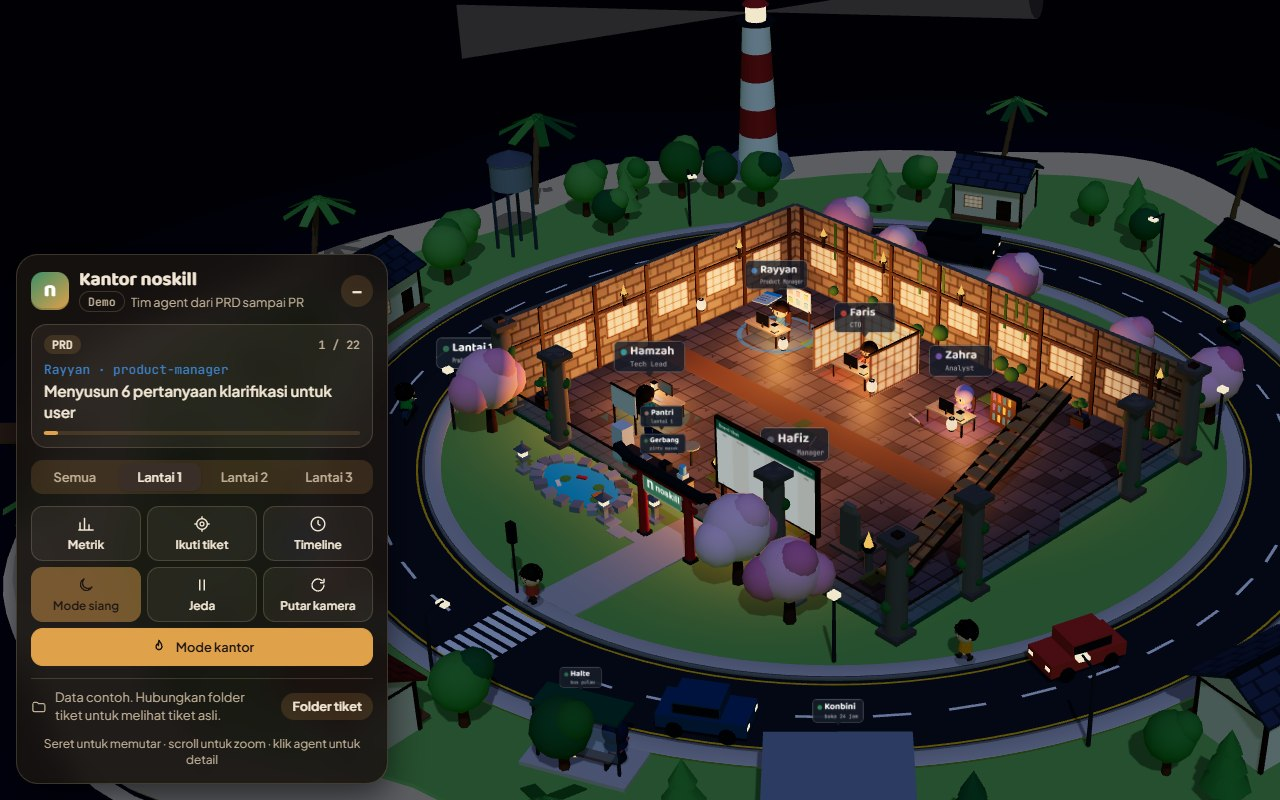
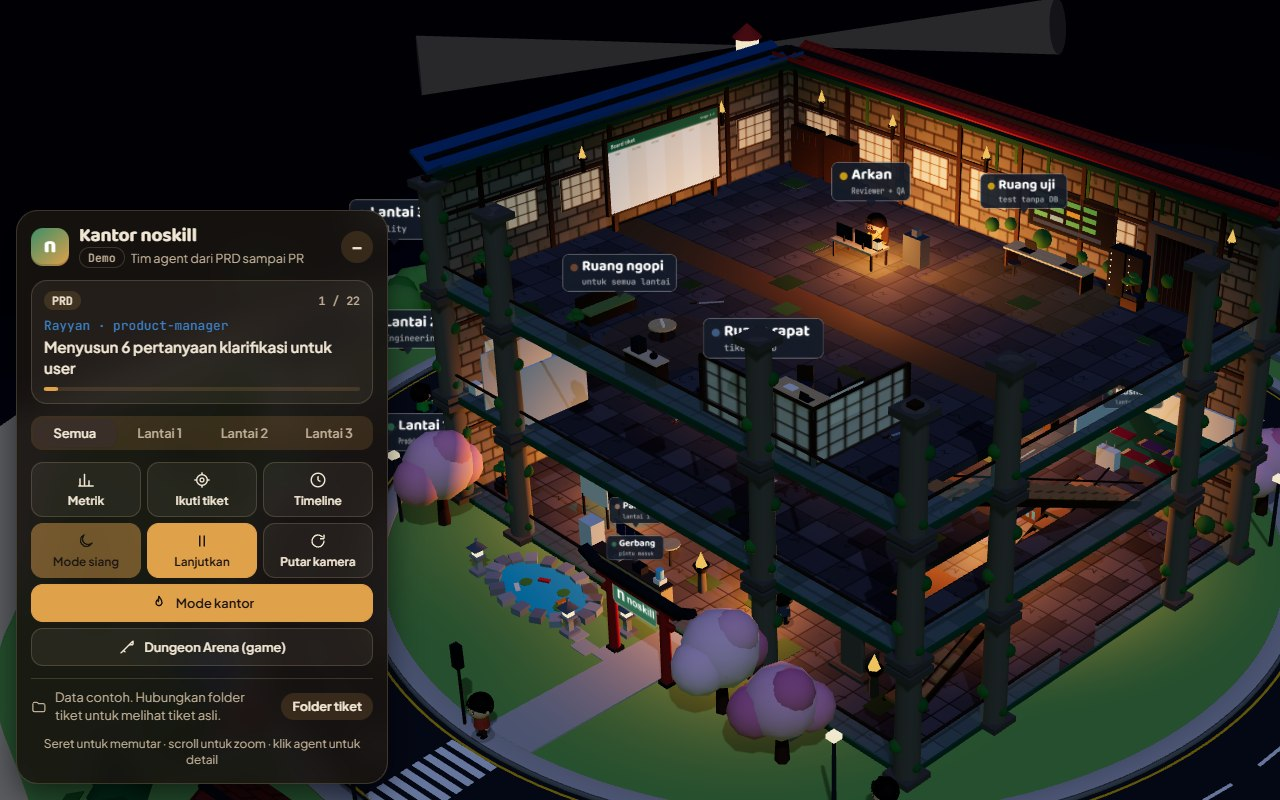
feat(kantor): papan tiket ke lantai 3 dan monster di jalan pada Mode dungeon (2.6.0)
- Papan tiket pindah ke dinding barat lantai 3 supaya tidak tertutup dari depan
- Monster (slime, imp) muncul di jalan lingkar lewat portal, memburu pejalan kaki yang terjatuh dan lari; mobil berhenti
- Percobaan karakter dungeon 3D dibatalkan; sprite 2D dan Dungeon Arena tetap
- Versi 2.6.0, screenshot, CHANGELOG, README, docs

diff --git a/docs/skills.html b/docs/skills.html
@@ -161,7 +161,7 @@ html { scroll-behavior: smooth; }
         <figure><img src="img/kantor-malam.jpg" alt="Kantor saat malam dengan lampu meja dan lampu jalan menyala" width="1280" height="800" loading="lazy"><figcaption>Mode malam: lampu meja dan lampu jalan menyala.</figcaption></figure>
       </div>
       </div>
-      <dl><dt>Cara pakai</dt><dd><code>/noskill:kantor</code>. Di Cowork/claude.ai halaman diterbitkan sebagai artifact milikmu (atau artifact lama diperbarui). Di Claude Code terminal halaman disalin ke folder docs dan berjalan dalam mode demo.</dd><dt>Lantai</dt><dd><ul><li>Lantai 1, Produk &amp; Arsitektur: Product Manager, CTO, Analyst, Tech Lead, Eng. Manager dengan board tiket.</li><li>Lantai 2, Engineering: Backend, Frontend, Fullstack Dev.</li><li>Lantai 3, Quality: Reviewer (sekaligus QA) di samping <em>Ruang uji</em> (papan CI dan rak server yang lampunya hijau/merah mengikuti verdict), plus rak buku.</li><li><em>Ruang ngopi</em> bersama di Lantai 3: agent dari semua lantai yang tidak punya pekerjaan sekitar 20 detik naik ke sana untuk ngopi, lalu kembali ke mejanya begitu ada tiket atau tahap untuknya.</li><li>Fasilitas lain: <em>Pantri</em> di Lantai 1 serta <em>Toilet</em> dan <em>Musholla</em> di Lantai 2. Agent yang menganggur bergantian ke sana atau mampir ngobrol ke meja rekan; saat waktu salat ke musholla, saat makan siang ke pantri.</li><li>Agent saling menyapa dan mengobrol lewat gelembung bicara, dan penerima tiket membalas kurir yang mengantarnya.</li><li>Kantor berdiri di pulau kecil dengan pantai, pohon kelapa, laguna, dan laut sampai cakrawala. Jalan lingkar mengitari kantor; mobil dan motor berputar di dua jalur berlawanan dan berhenti di zebra cross (segaris gerbang torii) saat ada orang menyeberang. Di luar jalan ada desa: rumah kayu beratap genteng, konbini yang menyala di malam hari, kuil kecil dengan torii, menara air, mercusuar yang menyapu cahayanya saat malam, dan dermaga dengan perahu nelayan; satu perahu lagi berlayar mengelilingi pulau. Halte, pangkalan ojek, dan gerobak bakso ada di trotoar luar.</li></ul></dd><dt>Yang bisa dilakukan</dt><dd><ul><li>Interior bergaya Jepang: lantai hinoki dan tatami, jendela dan sekat shoji, meja dan kursi kayu dengan zabuton, lampu andon, bonsai, tirai noren, dan lampion kertas.</li><li>Tampilan 3D realistis (cahaya filmic, bayangan lembut, tekstur serat kayu) dengan kamera hampir isometrik; papan nama gelap dengan titik warna agent, dan label agent di lantai yang tertutup dibuat samar.</li><li>Karakter chibi 3D (kepala besar, mata besar berkilau yang berkedip, pipi merona, ID card, shading lembut dengan bayangan) dengan ciri masing-masing: hijab dengan rok panjang, jenggot, kacamata, gaya rambut, dasi. Lengan dan kaki benar-benar bergerak saat berjalan, duduk, mengetik, dan makan; saat agent aktif tangannya terangkat dengan percikan. Lantai 1 berlantai kayu hinoki, lantai 2–3 bertatami.</li><li>Panel: langkah yang sedang berjalan dengan progres, pemilih lantai, dan toolbar (Metrik, Ikuti tiket, Timeline, Mode malam, Jeda, Putar kamera).</li><li><em>Mode dungeon</em> (tombol di toolbar): tema tambahan reruntuhan kastil malam hari dengan lantai batu, dinding bata, obor berkedip, pilar beriven, singgasana di samping papan Hafiz, dan pintu jeruji bermata merah di Ruang uji yang melotot saat reviewer meminta perubahan. Pilihannya diingat di browser.</li><li><em>Dungeon Arena</em> (tombol game di Mode dungeon): mini-game 2D sisi-samping. Kamu ksatria dengan penyihir sebagai teman; tiap tiket BUG menjadi slime berlabel ID tiketnya, lalu bos Tenggat muncul. Kontrol: panah atau WASD jalan, Spasi lompat, J/X/klik serang, Esc keluar. Hanya membaca tiket, status tiket tidak berubah. Di dunia 3D, ksatria, penyihir, dan penyihir waktu juga berdiri sebagai sprite animasi.</li><li>Klik agent: kartu dengan avatar, deskripsi, skill, tools, model, verdict, dan tiket yang sedang dipegang.</li><li>Klik tiket di board: AC, Riwayat, pemegang, dan <em>Putar ulang perjalanan</em>.</li><li><em>Metrik</em>: durasi rata-rata per tahap dan per agent dari baris Riwayat, ronde revisi terbanyak, daftar HOLD.</li><li>Filter per proyek/fitur, tombol lantai, <em>Ikuti tiket</em> (kamera mengikuti agent yang berjalan), panel yang bisa dikecilkan.</li><li>Orang lain yang membuka kantor tampil di panel dan di lobi Lantai 1.</li><li>Tiket HOLD bisa dijawab langsung di detail tiket; <code>/noskill:tiket lanjut</code> mengambil jawabannya. Selama HOLD, Eng. Manager dan agent pemegang tiket menunggu di <em>Ruang rapat</em> Lantai 3.</li><li>Setiap agent punya nama: Rayyan (PM), Faris (CTO), Zahra (Analyst), Hamzah (Tech Lead), Zayn (Backend), Alya (Frontend), Fathan (Fullstack), Arkan (Reviewer + QA), Hafiz (Eng. Manager).</li><li>Gelembung bicara menampilkan verdict yang dibawa agent, <em>Metrik</em> menampilkan token per agent dan per tiket, dan <em>Timeline</em> menampilkan perpindahan status hari ini.</li><li>Agent yang sedang mengerjakan PRD, ADR, atau BRD ikut menyala, dibaca dari <code>activity.json</code> yang ditulis <code>feature-flow</code>.</li></ul></dd><dt>Data live</dt><dd><ol><li>Tambahkan MCP <code>filesystem</code> di config Claude desktop, berisi folder induk proyek.</li><li>Buka artifact di aplikasi Claude desktop → <em>Folder tiket</em> → tempel path <code>docs/noskill</code> (atau folder <code>tickets</code>), satu per baris → <em>Pakai data live</em>.</li><li>Board disimpan ke database artifact, jadi di browser dan HP tampil sebagai <em>Snapshot</em>.</li></ol></dd><dt>Batasan</dt><dd>Membaca folder lokal hanya bisa di aplikasi Claude desktop dan pada artifact milikmu sendiri. Tanpa data live, halaman memutar contoh alur tiket.</dd></dl>
+      <dl><dt>Cara pakai</dt><dd><code>/noskill:kantor</code>. Di Cowork/claude.ai halaman diterbitkan sebagai artifact milikmu (atau artifact lama diperbarui). Di Claude Code terminal halaman disalin ke folder docs dan berjalan dalam mode demo.</dd><dt>Lantai</dt><dd><ul><li>Lantai 1, Produk &amp; Arsitektur: Product Manager, CTO, Analyst, Tech Lead, Eng. Manager.</li><li>Lantai 2, Engineering: Backend, Frontend, Fullstack Dev.</li><li>Lantai 3, Quality: papan tiket di dinding barat (paling terlihat dari depan), Reviewer (sekaligus QA) di samping <em>Ruang uji</em> (papan CI dan rak server yang lampunya hijau/merah mengikuti verdict), plus rak buku.</li><li><em>Ruang ngopi</em> bersama di Lantai 3: agent dari semua lantai yang tidak punya pekerjaan sekitar 20 detik naik ke sana untuk ngopi, lalu kembali ke mejanya begitu ada tiket atau tahap untuknya.</li><li>Fasilitas lain: <em>Pantri</em> di Lantai 1 serta <em>Toilet</em> dan <em>Musholla</em> di Lantai 2. Agent yang menganggur bergantian ke sana atau mampir ngobrol ke meja rekan; saat waktu salat ke musholla, saat makan siang ke pantri.</li><li>Agent saling menyapa dan mengobrol lewat gelembung bicara, dan penerima tiket membalas kurir yang mengantarnya.</li><li>Kantor berdiri di pulau kecil dengan pantai, pohon kelapa, laguna, dan laut sampai cakrawala. Jalan lingkar mengitari kantor; mobil dan motor berputar di dua jalur berlawanan dan berhenti di zebra cross (segaris gerbang torii) saat ada orang menyeberang. Di luar jalan ada desa: rumah kayu beratap genteng, konbini yang menyala di malam hari, kuil kecil dengan torii, menara air, mercusuar yang menyapu cahayanya saat malam, dan dermaga dengan perahu nelayan; satu perahu lagi berlayar mengelilingi pulau. Halte, pangkalan ojek, dan gerobak bakso ada di trotoar luar.</li></ul></dd><dt>Yang bisa dilakukan</dt><dd><ul><li>Interior bergaya Jepang: lantai hinoki dan tatami, jendela dan sekat shoji, meja dan kursi kayu dengan zabuton, lampu andon, bonsai, tirai noren, dan lampion kertas.</li><li>Tampilan 3D realistis (cahaya filmic, bayangan lembut, tekstur serat kayu) dengan kamera hampir isometrik; papan nama gelap dengan titik warna agent, dan label agent di lantai yang tertutup dibuat samar.</li><li>Karakter chibi 3D (kepala besar, mata besar berkilau yang berkedip, pipi merona, ID card, shading lembut dengan bayangan) dengan ciri masing-masing: hijab dengan rok panjang, jenggot, kacamata, gaya rambut, dasi. Lengan dan kaki benar-benar bergerak saat berjalan, duduk, mengetik, dan makan; saat agent aktif tangannya terangkat dengan percikan. Lantai 1 berlantai kayu hinoki, lantai 2–3 bertatami.</li><li>Panel: langkah yang sedang berjalan dengan progres, pemilih lantai, dan toolbar (Metrik, Ikuti tiket, Timeline, Mode malam, Jeda, Putar kamera).</li><li><em>Mode dungeon</em> (tombol di toolbar): tema tambahan reruntuhan kastil malam hari dengan lantai batu, dinding bata, obor berkedip, pilar beriven, singgasana di samping papan Hafiz, dan pintu jeruji bermata merah di Ruang uji yang melotot saat reviewer meminta perubahan. Di jalan lingkar muncul monster (slime dan imp berlabel ID tiket BUG) lewat portal ungu; mereka memburu pejalan kaki, yang terjatuh lalu lari, dan mobil berhenti di depannya. Pilihannya diingat di browser.</li><li><em>Dungeon Arena</em> (tombol game di Mode dungeon): mini-game 2D sisi-samping. Kamu ksatria dengan penyihir sebagai teman; tiap tiket BUG menjadi slime berlabel ID tiketnya, lalu bos Tenggat muncul. Kontrol: panah atau WASD jalan, Spasi lompat, J/X/klik serang, Esc keluar. Hanya membaca tiket, status tiket tidak berubah. Di dunia 3D, ksatria, penyihir, dan penyihir waktu juga berdiri sebagai sprite animasi.</li><li>Klik agent: kartu dengan avatar, deskripsi, skill, tools, model, verdict, dan tiket yang sedang dipegang.</li><li>Klik tiket di board: AC, Riwayat, pemegang, dan <em>Putar ulang perjalanan</em>.</li><li><em>Metrik</em>: durasi rata-rata per tahap dan per agent dari baris Riwayat, ronde revisi terbanyak, daftar HOLD.</li><li>Filter per proyek/fitur, tombol lantai, <em>Ikuti tiket</em> (kamera mengikuti agent yang berjalan), panel yang bisa dikecilkan.</li><li>Orang lain yang membuka kantor tampil di panel dan di lobi Lantai 1.</li><li>Tiket HOLD bisa dijawab langsung di detail tiket; <code>/noskill:tiket lanjut</code> mengambil jawabannya. Selama HOLD, Eng. Manager dan agent pemegang tiket menunggu di <em>Ruang rapat</em> Lantai 3.</li><li>Setiap agent punya nama: Rayyan (PM), Faris (CTO), Zahra (Analyst), Hamzah (Tech Lead), Zayn (Backend), Alya (Frontend), Fathan (Fullstack), Arkan (Reviewer + QA), Hafiz (Eng. Manager).</li><li>Gelembung bicara menampilkan verdict yang dibawa agent, <em>Metrik</em> menampilkan token per agent dan per tiket, dan <em>Timeline</em> menampilkan perpindahan status hari ini.</li><li>Agent yang sedang mengerjakan PRD, ADR, atau BRD ikut menyala, dibaca dari <code>activity.json</code> yang ditulis <code>feature-flow</code>.</li></ul></dd><dt>Data live</dt><dd><ol><li>Tambahkan MCP <code>filesystem</code> di config Claude desktop, berisi folder induk proyek.</li><li>Buka artifact di aplikasi Claude desktop → <em>Folder tiket</em> → tempel path <code>docs/noskill</code> (atau folder <code>tickets</code>), satu per baris → <em>Pakai data live</em>.</li><li>Board disimpan ke database artifact, jadi di browser dan HP tampil sebagai <em>Snapshot</em>.</li></ol></dd><dt>Batasan</dt><dd>Membaca folder lokal hanya bisa di aplikasi Claude desktop dan pada artifact milikmu sendiri. Tanpa data live, halaman memutar contoh alur tiket.</dd></dl>
     </section>
     <section class="skill" id="project-profile">
       <h3><code>project-profile</code><span class="tag">sekali per project</span></h3>

diff --git a/skills/kantor/kantor-noskill.html b/skills/kantor/kantor-noskill.html
@@ -1276,17 +1276,19 @@
   centre.position.set(4, FY[0], 6.8);
   centre.rotation.y = Math.PI;               // faces the corridor
   floors[0].add(centre);
-  box(6.6, 3.5, 0.2, WOOD, 0, 2.55, -1.4, { parent: centre });
-  box(0.2, 1.0, 0.2, WOOD, -2.9, 0.5, -1.4, { parent: centre });
-  box(0.2, 1.0, 0.2, WOOD, 2.9, 0.5, -1.4, { parent: centre });
+  // the board stands on the top floor against the west wall: from the front it is not hidden by a slab or railing there
+  const boardG = new THREE.Group(); boardG.position.set(BX0 + 0.75, FY[2], -1.6); boardG.rotation.y = Math.PI / 2; floors[2].add(boardG);
+  box(6.6, 3.5, 0.2, WOOD, 0, 2.55, 0, { parent: boardG });
+  box(0.2, 1.0, 0.2, WOOD, -2.9, 0.5, 0, { parent: boardG });
+  box(0.2, 1.0, 0.2, WOOD, 2.9, 0.5, 0, { parent: boardG });
   const boardCv = document.createElement('canvas');
   boardCv.width = 1024; boardCv.height = 540;
   const boardTex = new THREE.CanvasTexture(boardCv); boardTex.encoding = THREE.sRGBEncoding;
   const boardMat = new THREE.MeshStandardMaterial({ map: boardTex, roughness: 0.85, emissive: 0xffffff, emissiveMap: boardTex, emissiveIntensity: 0.12 });
   const boardFront = new THREE.Mesh(new THREE.PlaneGeometry(6.3, 3.3), boardMat);
-  boardFront.position.set(0, 2.55, -1.29); centre.add(boardFront);
+  boardFront.position.set(0, 2.55, 0.11); boardG.add(boardFront);
   const boardBack = new THREE.Mesh(new THREE.PlaneGeometry(6.3, 3.3), boardMat);
-  boardBack.position.set(0, 2.55, -1.51); boardBack.rotation.y = Math.PI; centre.add(boardBack);
+  boardBack.position.set(0, 2.55, -0.11); boardBack.rotation.y = Math.PI; boardG.add(boardBack);
   box(1.1, 1.0, 0.6, HINOKI, 1.6, 0.5, 0.4, { parent: centre });
   deskLamp(centre, 1.85, 1.0, 0.6);
 
@@ -1832,6 +1834,7 @@
   const ndc = new THREE.Vector2();
   const pickables = [];
   Object.keys(ST).forEach(function (k) { pickables.push(ST[k].g, ST[k].person); });
+  pickables.push(boardG);
   boardFront.userData.board = true; boardBack.userData.board = true;
   function visibleChain(o) { for (; o; o = o.parent) if (!o.visible) return false; return true; }
   function keyAt(ev) {
@@ -3132,6 +3135,11 @@
       let target = v.max;
       if (gap < 4) target = Math.max(0, (gap - 1) * 1.2);
       if (crossing && toZebra > -0.5 && toZebra < 7) target = Math.min(target, Math.max(0, toZebra * 0.8));
+      monsters.forEach(function (m) {   // a monster on the road: stop short of it
+        const mr = Math.hypot(m.g.position.x, m.g.position.z); if (Math.abs(mr - r) > 1.7 || m.state === 'leave') return;
+        const d = (((Math.atan2(m.g.position.z, m.g.position.x) - v.a) * dir * r) % lap + lap) % lap - v.len / 2 - 1.3;
+        if (d > -0.5 && d < 7) target = Math.min(target, Math.max(0, d * 0.7));
+      });
       v.v += Math.max(-6 * dt, Math.min(2.5 * dt, target - v.v));
       v.a += dir * v.v * dt / r;
       v.g.position.copy(onRing(r, v.a, 0.06));
@@ -3139,11 +3147,14 @@
     });
     // walkers loop round the sidewalks
     walkersOut.forEach(function (w) {
-      w.a += w.dir * w.sp * dt / w.r;
+      const stunned = w.stun > 0, run = w.flee > 0;   // set by a monster's attack (dungeon mode)
+      if (stunned) w.stun -= dt; else { if (run) w.flee -= dt; w.a += w.dir * w.sp * (run ? 2.4 : 1) * dt / w.r; }
       w.p.position.copy(onRing(w.r, w.a, 0.18));
       w.p.rotation.y = w.dir > 0 ? -w.a : Math.PI - w.a;
-      swing(w.p, t * 7 * w.sp, true);
+      w.p.userData.model.rotation.x = stunned ? -1.35 : 0;
+      swing(w.p, t * 7 * w.sp * (run ? 2 : 1), !stunned);
     });
+    stepMonsters(dt);
     // the seller stirs the pot
     seller.userData.armR.rotation.x = -1.0 + Math.sin(t * 3) * 0.3;
     // boats bob, one sails slowly round the island; the lighthouse turns; the surf breathes
@@ -3333,6 +3344,91 @@
     charBillboard(g, 'wizard', 7.6, FY[2], 5.0, -1, function (c) { const p = c.t % 7; return p > 5.8 ? ['cast', Math.min(4, Math.floor((p - 5.8) / 0.24))] : ['idle', Math.floor(c.t * 4.2) % 4]; });
     charBillboard(g, 'timemage', 0.4, FY[2], -7.4, 1, function (c) { const p = c.t % 9; return p > 7.6 ? ['cast', Math.min(3, Math.floor((p - 7.6) / 0.35))] : ['idle', Math.floor(c.t * 4) % 4]; });
   })();
+
+  // ---------- Dungeon monsters: they appear on the ring road and attack the people walking round it ----------
+  // Only while dungeon mode is on. Each one carries a BUG ticket ID, appears in a purple portal ahead of a walker, hunts
+  // that walker, knocks them down and sends them running the other way. Cars stop for a monster on the road the way they
+  // do at the zebra crossing. No extra lights: the glow is emissive.
+  const monsters = [], monPortals = [], monPos = new THREE.Vector3();
+  let monsterT = 5, monsterN = 0;
+  const MON_SHOUT = ['Aaah!', 'Monster!', 'Tolong!', 'Lari!', 'Ada bug!'];
+  const monEye = new THREE.MeshBasicMaterial({ color: 0xff3a30, toneMapped: false });
+  const monWhite = new THREE.MeshBasicMaterial({ color: 0xffffff, toneMapped: false }), monInk = new THREE.MeshBasicMaterial({ color: 0x1a1020 });
+  function makeMonster(kind, ci) {
+    const g = new THREE.Group(), u = {};
+    const sph = geo('monSphere', function () { return new THREE.SphereGeometry(1, 16, 12); });
+    if (kind === 'slime') {
+      const mt = new THREE.MeshStandardMaterial({ color: [0x5ccf70, 0x9b6bd9, 0x4fb0e8][ci % 3], roughness: 0.3, metalness: 0.05 });
+      u.body = new THREE.Mesh(sph, mt); u.body.scale.set(0.85, 0.7, 0.85); u.body.position.y = 0.62; u.body.castShadow = true; g.add(u.body);
+      [-0.3, 0.3].forEach(function (x) {
+        part(g, geo('monEye', function () { return new THREE.SphereGeometry(0.17, 10, 8); }), monWhite, x, 0.8, 0.66);
+        part(g, geo('monPupil', function () { return new THREE.SphereGeometry(0.08, 8, 6); }), monInk, x, 0.8, 0.8);
+      });
+    } else {   // a shadow imp: dark body, two horns, glowing red eyes
+      const mt = new THREE.MeshStandardMaterial({ color: 0x5b3d86, emissive: 0x2a1450, emissiveIntensity: 0.7, roughness: 0.6 });
+      u.body = new THREE.Mesh(sph, mt); u.body.scale.set(0.62, 0.8, 0.58); u.body.position.y = 0.95; u.body.castShadow = true; g.add(u.body);
+      [-0.3, 0.3].forEach(function (x) {
+        const horn = part(g, geo('monHorn', function () { return new THREE.ConeGeometry(0.1, 0.4, 6); }), personMat(0xb8a6c8), x, 1.72, 0); horn.rotation.z = -x * 1.1;
+        part(g, geo('monEyeR', function () { return new THREE.SphereGeometry(0.11, 8, 6); }), monEye, x * 0.8, 1.12, 0.48);
+        part(g, geo('monArm', function () { return new THREE.SphereGeometry(0.17, 8, 6); }), mt, x * 2.2, 0.78, 0.15);
+        part(g, geo('monFoot', function () { return new THREE.SphereGeometry(0.2, 8, 6); }), mt, x * 0.7, 0.16, 0.1).scale.set(1, 0.6, 1.3);
+      });
+    }
+    const ring = part(g, geo('monRing', function () { return new THREE.CircleGeometry(0.95, 20); }), new THREE.MeshBasicMaterial({ color: 0xb06bff, transparent: true, opacity: 0.38, depthWrite: false, blending: THREE.AdditiveBlending, toneMapped: false }), 0, 0.05, 0);
+    ring.rotation.x = -Math.PI / 2;   // a faint purple glow under every monster so it shows up in the dark
+    g.userData = u; return g;
+  }
+  function monsterTag() {
+    const ids = (typeof boardList !== 'undefined' ? boardList : []).filter(function (tk) { return tk && tk.status === 'BUG' && tk.id; }).map(function (tk) { return String(tk.id).slice(0, 14); });
+    const pool = ids.length ? ids : ['BUG-101', 'BUG-102', 'BUG-103', 'BUG-104'];
+    return pool[monsterN++ % pool.length];
+  }
+  function spawnMonster() {
+    const w = walkersOut[Math.floor(Math.random() * walkersOut.length)];
+    const a = w.a + w.dir * (0.3 + Math.random() * 0.14), r = 21.3 + Math.random() * 1.7, kind = Math.random() < 0.62 ? 'slime' : 'imp';
+    const g = makeMonster(kind, monsterN), at = onRing(r, a, 0.06);
+    g.position.copy(at); g.scale.setScalar(0.01); scene.add(g);
+    const lb = makeLabel(monsterTag(), 'monster', 0xc8453a); lb.position.set(0, 2.3, 0); g.add(lb);
+    const por = new THREE.Mesh(geo('monPortal', function () { return new THREE.CircleGeometry(1.7, 28); }), new THREE.MeshBasicMaterial({ color: 0x9b4dff, transparent: true, opacity: 0.85, depthWrite: false, blending: THREE.AdditiveBlending, toneMapped: false }));
+    por.rotation.x = -Math.PI / 2; por.position.set(at.x, 0.1, at.z); por.scale.setScalar(0.2); scene.add(por); monPortals.push({ m: por, t: 0 });
+    monsters.push({ g: g, kind: kind, label: lb, target: w, state: 'spawn', t: 0, ttl: 17, attacks: 0, cd: 0 });
+  }
+  function stepMonsters(dt) {
+    const on = dungeon > 0.5;
+    monsterT -= dt;
+    if (on && monsterT <= 0 && monsters.filter(function (m) { return m.state !== 'leave'; }).length < 3) { monsterT = 9 + Math.random() * 7; spawnMonster(); }
+    for (let i = monsters.length - 1; i >= 0; i--) {
+      const m = monsters[i], g = m.g, u = g.userData; m.t += dt; m.cd -= dt; m.ttl -= dt;
+      if (m.state !== 'leave' && (!on || m.ttl <= 0 || m.attacks >= 3)) { m.state = 'leave'; m.t = 0; }
+      if (m.state === 'spawn') {
+        const k = Math.min(1, m.t / 0.8); g.scale.setScalar(Math.max(0.01, k)); if (k >= 1) m.state = 'hunt';
+      } else if (m.state === 'leave') {
+        const k = Math.max(0, 1 - m.t / 0.7); g.scale.setScalar(Math.max(0.01, k));
+        if (k <= 0) { g.remove(m.label); scene.remove(g); monsters.splice(i, 1); continue; }
+      } else {
+        const w = m.target, dx = w.p.position.x - g.position.x, dz = w.p.position.z - g.position.z, d = Math.hypot(dx, dz) || 1;
+        g.rotation.y = Math.atan2(dx, dz);
+        if (m.state === 'hunt') {
+          if (d > 1.2) { g.position.x += dx / d * 2.9 * dt; g.position.z += dz / d * 2.9 * dt; }
+          else if (m.cd <= 0) {   // lunge: the walker is knocked down and runs the other way
+            m.state = 'attack'; m.t = 0; m.cd = 3.5; m.attacks++;
+            w.stun = 2.2; w.flee = 7; w.dir = -w.dir;
+            npcSays.push({ p: w.p, sp: makeBubble(MON_SHOUT[Math.floor(Math.random() * MON_SHOUT.length)]), ttl: 2.2 });
+          }
+          g.position.y = 0.06 + (m.kind === 'slime' ? Math.abs(Math.sin(m.t * 7)) * 0.28 : Math.abs(Math.sin(m.t * 6)) * 0.1);
+          if (m.kind === 'slime') u.body.scale.set(0.85 * (1 + Math.sin(m.t * 14) * 0.05), 0.7 * (1 - Math.sin(m.t * 14) * 0.07), 0.85);
+        } else {
+          const k = m.t / 0.6; g.position.y = 0.06 + Math.sin(Math.min(1, k) * Math.PI) * 0.7; u.body.rotation.x = Math.sin(Math.min(1, k) * Math.PI) * 0.5;
+          if (k >= 1) { m.state = 'hunt'; m.t = 0; u.body.rotation.x = 0; }
+        }
+      }
+    }
+    for (let i = monPortals.length - 1; i >= 0; i--) {
+      const q = monPortals[i]; q.t += dt; const k = q.t / 1.8;
+      q.m.scale.setScalar(0.2 + Math.min(1, q.t / 0.5) * 0.8); q.m.material.opacity = 0.85 * Math.max(0, 1 - k) + 0.05 * Math.sin(q.t * 12); q.m.rotation.z += dt * 3;
+      if (k >= 1) { scene.remove(q.m); q.m.material.dispose(); monPortals.splice(i, 1); }
+    }
+  }
 
   // ---------- Dungeon Arena: a small side-view brawler on top of the office ----------
   // You are the hero; the wizard fights beside you; every BUG ticket becomes a slime, and the time mage ("Tenggat")

diff --git a/docs/index.html b/docs/index.html
@@ -124,7 +124,7 @@
         <div class="eyebrow">Plugin Claude Code</div>
         <h1>noskill</h1>
         <div align="center">
-          <img alt="Version 2.5.0" src="https://img.shields.io/badge/version-2.5.0-1d6b57?style=flat-square&logo=github" />
+          <img alt="Version 2.6.0" src="https://img.shields.io/badge/version-2.6.0-1d6b57?style=flat-square&logo=github" />
         </div>
         <p class="lede">Skill dan agent untuk kerja development seperti tim engineering: tiket dikerjakan developer, lalu reviewer mengecek kode sekaligus menjalankan test dan cara verifikasinya, lalu masuk DONE. Kodenya hanya mengubah yang diminta, bukan refactor tanpa alasan. Cocok untuk bug fix, fitur kecil, fitur besar, dan multi-repo.</p>
         <div class="cmd"><pre>/plugin install noskill --marketplace awahids/noskill</pre><button type="button" data-copy>Salin</button></div>

diff --git a/README.md b/README.md
@@ -8,7 +8,7 @@
 # noskill
 
 <div align="center">
-  <img alt="Version 2.5.0" src="https://img.shields.io/badge/version-2.5.0-1d6b57?style=flat-square&logo=github" />
+  <img alt="Version 2.6.0" src="https://img.shields.io/badge/version-2.6.0-1d6b57?style=flat-square&logo=github" />
 </div>
 
 Koleksi Claude Skills & Agent untuk kerja development sehari-hari — dipaketkan sebagai plugin `noskill`, termasuk tim engineering lengkap dalam bentuk agent: Product Manager, CTO, analyst, tech lead, developer backend/frontend, dan reviewer (sekaligus QA).
@@ -25,7 +25,7 @@ Koleksi Claude Skills & Agent untuk kerja development sehari-hari — dipaketkan
 |---|---|---|
 | ![Kartu agent Arkan (Reviewer + QA) dengan avatar, deskripsi, skill, tools, dan verdict](docs/img/kantor-agent.jpg) | ![Lantai 1 berlantai parket: agent bekerja di meja, mobil dan motor melintas di jalan](docs/img/kantor-jalan.jpg) | ![Kantor saat malam dengan lampu meja dan lampu jalan menyala](docs/img/kantor-malam.jpg) |
 
-**Mode dungeon:** tombol di toolbar mengubah kantor jadi reruntuhan kastil malam hari (obor berkedip, lantai batu, pilar beriven, pintu jeruji bermata merah di Ruang uji). Tampilan kantor biasa tetap default.
+**Mode dungeon:** tombol di toolbar mengubah kantor jadi reruntuhan kastil malam hari (obor berkedip, lantai batu, pilar beriven, pintu jeruji bermata merah di Ruang uji). Tampilan kantor biasa tetap default. Di mode ini monster (slime dan imp berlabel ID tiket BUG) juga muncul di jalan lingkar lewat portal, menerkam pejalan kaki, dan membuat mobil berhenti.
 
 ![Mode dungeon: kantor sebagai reruntuhan kastil dengan obor, lantai batu, dan dinding bata](docs/img/kantor-dungeon.jpg)
 

diff --git a/CHANGELOG.md b/CHANGELOG.md
@@ -2,6 +2,18 @@
 
 Format: versi terbaru di atas. Versi di `.claude-plugin/plugin.json` dinaikkan setiap rilis supaya pengguna mendapat update.
 
+## 2.6.0 — 2026-11-09
+
+### Diubah — papan tiket pindah ke lantai 3
+- **Papan tiket kini berdiri di dinding barat lantai 3.** Di lantai 1 papan itu sering tertutup lantai atas dan pagar kalau dilihat dari depan; di lantai teratas tidak ada lantai di atasnya, jadi papan terlihat jelas dari tampilan depan dan tampilan semua lantai. Klik tiket di papan tetap bekerja. Papan ikut tersembunyi saat kamu memilih Lantai 1 atau 2 (lantai di atasnya disembunyikan).
+
+### Ditambah — monster di jalan pada Mode dungeon
+- Saat Mode dungeon aktif, **monster muncul di jalan lingkar** lewat portal ungu: slime berwarna dan imp bayangan bermata merah, tiap monster berlabel ID tiket BUG (contoh bila tidak ada tiket BUG). Maksimal tiga sekaligus.
+- Monster memburu pejalan kaki di trotoar, menerkam, lalu pejalan kaki **terjatuh, berteriak ("Monster!", "Tolong!", "Lari!"), dan lari ke arah sebaliknya**. Setelah tiga serangan atau sekitar 17 detik monster menghilang; saat Mode dungeon dimatikan semuanya ikut hilang.
+- **Mobil dan motor berhenti** di depan monster yang ada di jalan, seperti berhenti di zebra cross.
+- Tanpa lampu tambahan (cahaya monster berupa emissive) supaya tidak melewati batas shader.
+- Percobaan membuat tiga karakter dungeon (ksatria, penyihir, penyihir waktu) menjadi model 3D dibatalkan karena tidak mirip sprite 2D aslinya; sprite 2D dan mini-game Dungeon Arena tetap seperti di 2.5.0.
+
 ## 2.5.0 — 2026-11-08
 
 ### Ditambah — karakter sprite dan mini-game di Mode dungeon
